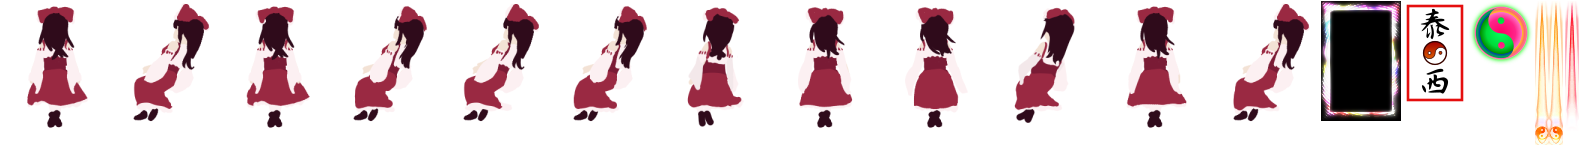
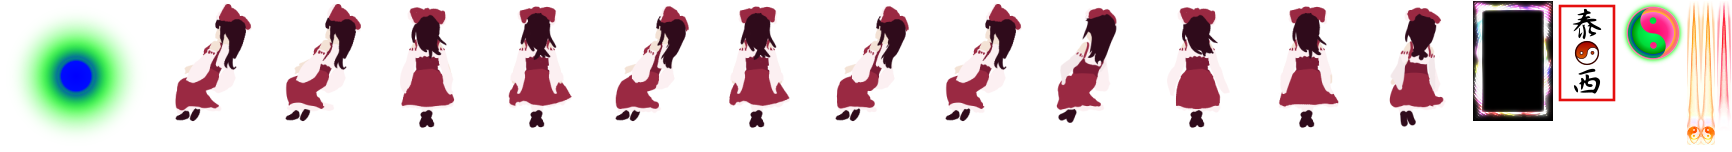
reimuA bomb prototype

diff --git a/src/plrmodes/reimu_a.c b/src/plrmodes/reimu_a.c
@@ -156,7 +156,102 @@ static int reimu_spirit_homing(Projectile *p, int t) {
 	return ACTION_NONE;
 }
 
+static const Color *reimu_spirit_orb_color(Color *c, int i) {
+	*c = *RGBA((0.2 + (i==0))/1.2, (0.2 + (i==1))/1.2, (0.2 + 1.5*(i==2))/1.2, 0.0);
+	return c;
+}
+
+static void reimu_spirit_bomb_orb_visual(Enemy *e, int t, bool render) {
+	if(!render)
+		return;
+	complex pos = e->pos;
+
+	for(int i = 0; i < 3; i++) {
+		complex offset = (10 + pow(t, 0.5)) * cexp(I * (2 * M_PI / 3*i + sqrt(1 + t * t / 300.0)));
+
+		Color c;
+		r_draw_sprite(&(SpriteParams) {
+			.sprite = "proj/glowball",
+			.shader = "sprite_bullet",
+			.pos = { creal(pos+offset), cimag(pos+offset) },
+			.color = reimu_spirit_orb_color(&c, i),
+
+//			.shader_params = &(ShaderCustomParams) {.vector = {0.3,0,0,0}},
+		});
+	}
+}
+
+static int reimu_spirit_bomb_orb(Enemy *e, int t) {
+	int index = creal(e->args[1]) + 0.5;
+	if(t == EVENT_BIRTH && index == 0) {
+		global.shake_view = 4;
+	}
+
+	if(t == EVENT_DEATH) {
+		global.shake_view = 20;
+		global.shake_view_fade = 0.6;
+
+		int count = 21;
+		double offset = frand();
+		for(int i = 0; i < count; i++) {
+			Color c;
+			PARTICLE(
+				.sprite_ptr = get_sprite("proj/glowball"),
+				.shader = "sprite_bullet",
+				.color = reimu_spirit_orb_color(&c, i%3),
+				.timeout = 60,
+				.pos = e->pos,
+				.args = { cexp(I * 2 * M_PI / count * (i + offset)) * 15 },
+				.angle = 2*M_PI*frand(),
+				.rule = linear,
+				.draw_rule = Fade,
+				.flags = PFLAG_NOREFLECT,
+			);
+		}
+	}
+
+	if(t < 0) {
+		return ACTION_ACK;
+	}
+
+	if(global.frames - global.plr.recovery > 0) {
+		return ACTION_DESTROY;
+	}
+
+	double circletime = 100+20*index;
+
+	complex target_circle = global.plr.pos + 10 * sqrt(t) * e->args[0]*(1 + 0.1 * sin(0.2*t));
+	e->args[0] *= cexp(I*0.1);
+                                                                            
+	double circlestrength = 1 / (1 + exp(t-circletime));
+	
+	e->args[3] = plrutil_homing_target(e->pos, e->args[3]);
+	complex target_homing = e->args[3];
+
+	e->pos += 0.3 * (circlestrength * (target_circle - e->pos) + 0.2 * (1-circlestrength) * (target_homing - e->pos));
+
+	for(int i = 0; i < 3 && circlestrength < 0.3; i++) {
+		Color c;
+		PARTICLE(
+			.sprite_ptr = get_sprite("part/stain"),
+			.color = reimu_spirit_orb_color(&c, i),
+			.pos = e->pos + 10 * cexp(I*2*M_PI/3*(i+t*0.1)),
+			.angle = 2*M_PI*frand(),
+			.timeout = 60,
+			.draw_rule = ScaleFade,
+			.args = { 0, 0.8, 0.8, 0.8},
+		);
+	}
+	
+	return ACTION_NONE;
+}
+
 static void reimu_spirit_bomb(Player *p) {
+	int count = 6;
+	for(int i = 0; i < count; i++) {
+		create_enemy_p(&p->slaves, p->pos, ENEMY_BOMB, reimu_spirit_bomb_orb_visual, reimu_spirit_bomb_orb, cexp(I*2*M_PI/count*i),i,0,0);
+	}
+
 }
 
 static void reimu_spirit_shot(Player *p) {
